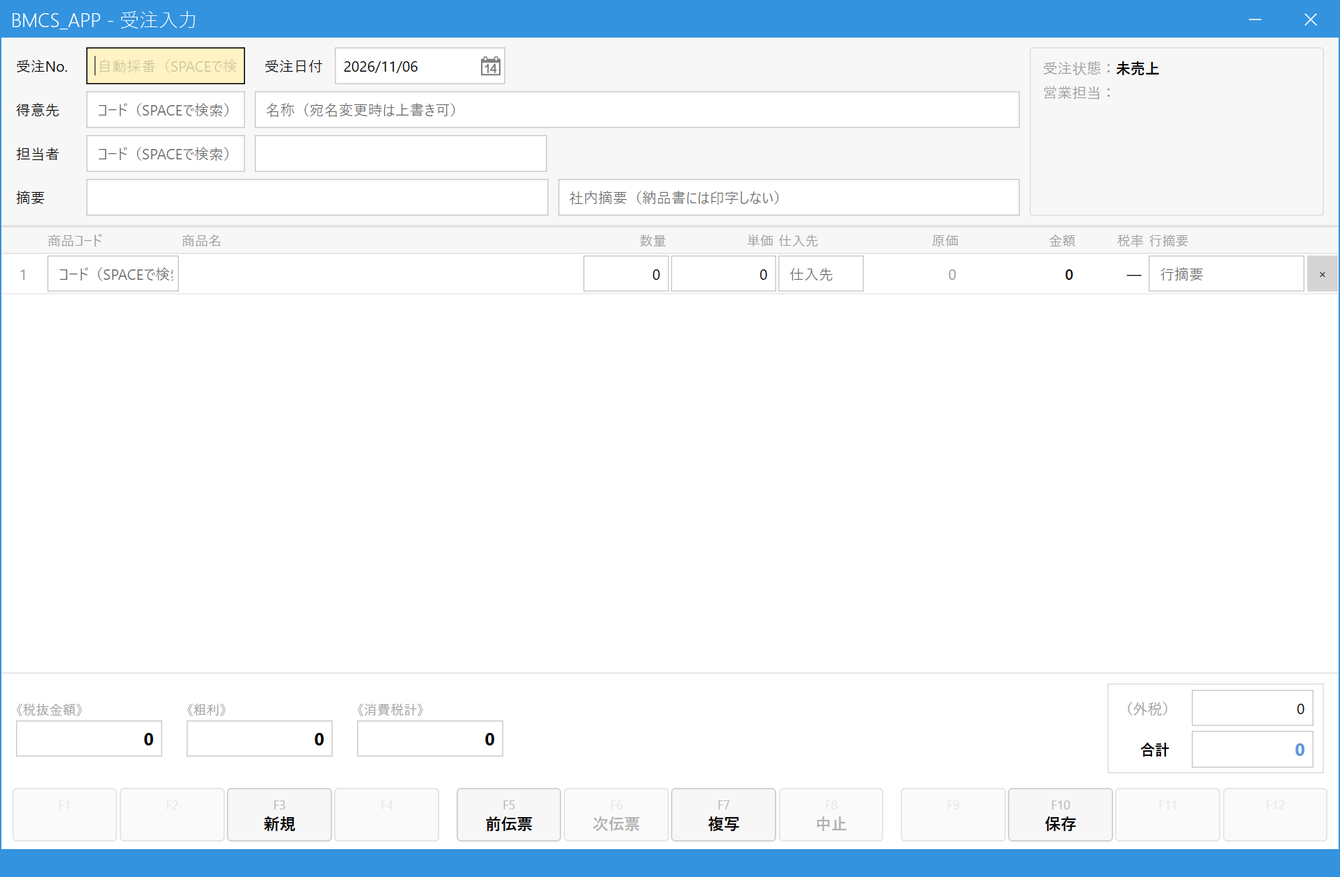
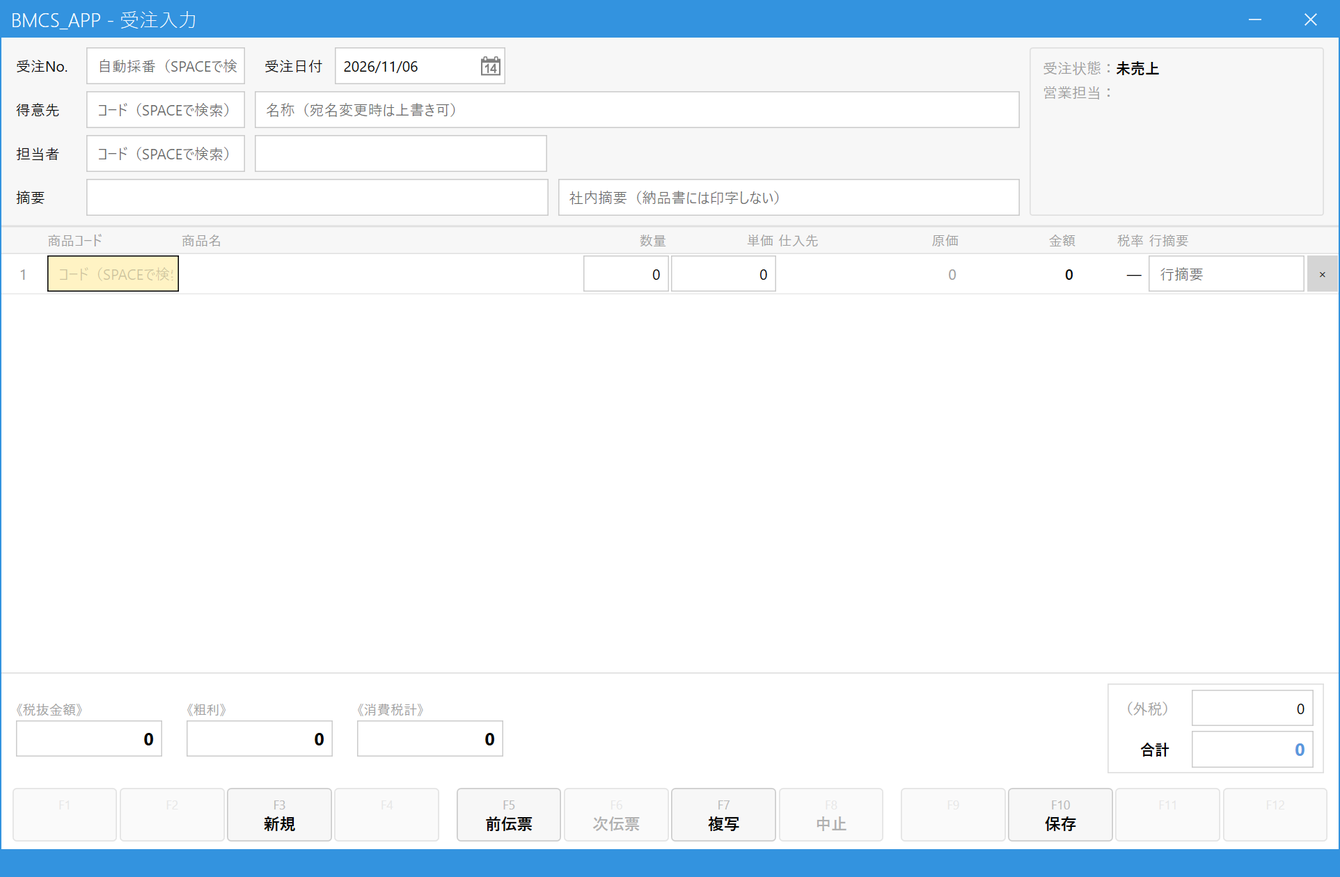
操作マニュアルを仕入先を商品検索で決める方式に合わせて直す
- 受注入力・売上入力: 明細の仕入先は表示のみで、商品検索のリストで決まることを説明
- 商品検索モーダル: 仕入先・原価の列、仕入先ごとの行、並び順、検索対象を説明
- 商品マスタ・仕入先／商品／原価マスタ: 主仕入先は直接入力の既定であること等を修正
- 仕入先列の画面写真と商品検索モーダルの画像を撮り直す

Changed region(s): [[0.0623, 0.031, 0.187, 0.1238], [0.0312, 0.2786, 0.1558, 0.3405], [0.5922, 0.3095, 0.6234, 0.3405]]

diff --git a/docs/user-manual-jp/order-entry.html b/docs/user-manual-jp/order-entry.html
@@ -68,18 +68,19 @@
 
 <h2><span class="no">3.</span>商品と数量を入れる</h2>
 <p>明細の1行目、<b>商品コード欄</b>から入力します。コードがわかれば入力して <kbd>Enter</kbd>。わからなければ <kbd>Space</kbd> で商品検索を開きます。</p>
-<figure class="mid" data-ann='[{"r":[344,170,490,53],"n":1,"b":[960,196]},{"r":[49,273,1099,44],"n":2,"b":[800,420]},{"r":[1195,82,455,140],"n":3},{"r":[1195,930,455,52],"n":4,"b":[1000,830]}]'>
+<figure class="mid" data-ann='[{"r":[417,170,490,53],"n":1,"b":[960,196]},{"r":[49,274,1380,88],"n":2,"b":[400,520]},{"r":[858,237,332,168],"n":3,"b":[1020,520]},{"r":[1475,82,455,280],"n":4,"b":[1700,480]},{"r":[1475,929,455,53],"n":5,"b":[1700,860]}]'>
   <div class="frame"><img src="images/order-05-product-basket.png" alt="商品検索"></div>
-  <figcaption>商品検索（「A4」と入力して1行選んだ状態）</figcaption>
+  <figcaption>商品検索（「ジェット」と入力して、仕入先ごとの行を2つ選んだ状態。仕入先・原価の値は架空です）</figcaption>
 </figure>
 <ol class="legend">
-  <li>商品名・コードの一部を入力して絞り込みます。</li>
-  <li>入れたい商品の行で <kbd>Enter</kbd>（またはダブルクリック）。右側の「選択中」に入ります。同じ操作でもう一度押すと外れます。</li>
-  <li>最大6件まで同時に選べます。「過去の取引履歴から」タブでは、<b>この得意先に以前売った商品</b>から選べます。</li>
+  <li>商品名・コード・仕入先名などの一部を入力して絞り込みます（仕入先のコードや名称でも探せます）。</li>
+  <li>入れたい行で <kbd>Enter</kbd>（またはダブルクリック）。右側の「選択中」に入ります。同じ操作でもう一度押すと外れます。<b>同じ商品でも、原価を登録した仕入先ごとに行が分かれます</b>（この例では、同じ商品が東西商事と南北物産の2行）。原価を登録した仕入先がない商品（この例の0.7mm 赤）は、仕入先が空欄の1行で、標準原価が出ます。並び順は、商品コード、同じ商品は仕入先コードの順です。</li>
+  <li><b>仕入先・原価</b>：選んだ行の仕入先と原価が、そのまま明細に入ります。</li>
+  <li>選んだ行です。仕入先の名前も出ます。最大6件まで同時に選べ、<b>同じ商品でも仕入先が違えば別の行として</b>選べます（同じ商品・同じ仕入先を重ねて選ぶことはできません）。「過去の取引履歴から」タブでは、<b>この得意先に以前売った商品</b>から選べます（<b>前回の仕入先</b>と、<b>いまの原価</b>が出ます）。</li>
   <li><b>「一括転記」</b>（<kbd>Ctrl</kbd>+<kbd>Enter</kbd>）で明細に取り込みます。</li>
 </ol>
 
-<p>商品を選ぶと、商品名・単価・税率に加えて、<b>仕入先と原価</b>も自動で入り、カーソルが<b>数量</b>へ移ります。数量を入れて <kbd>Enter</kbd> で次の欄へ進みます。商品を入れると空の行が自動で1行増えるので、続けて次の商品を入力できます。</p>
+<p>商品を選ぶと、商品名・単価・税率に加えて、<b>仕入先と原価</b>も自動で入り（商品検索で選んだ行の仕入先と原価。コードを入力して <kbd>Enter</kbd> したときは、商品の主仕入先とその原価）、カーソルが<b>数量</b>へ移ります。数量を入れて <kbd>Enter</kbd> で次の欄へ進みます。商品を入れると空の行が自動で1行増えるので、続けて次の商品を入力できます。</p>
 <figure data-ann='[{"r":[838,367,123,110],"n":1,"b":[900,700]},{"r":[964,367,151,110],"n":2,"b":[1040,700]},{"r":[1118,367,123,110],"n":3,"b":[1180,700]},{"r":[1245,367,155,110],"n":4,"b":[1322,700]},{"r":[1478,367,76,110],"n":5,"b":[1516,700]},{"r":[1650,367,224,110],"n":6,"b":[1762,700]},{"r":[1878,367,44,110],"n":7,"b":[1896,700]}]'>
   <div class="frame"><img src="images/order-07-filled.png" alt="明細を入力した状態"></div>
   <figcaption>2行入力した状態（仕入先・原価の値は架空の例です）</figcaption>
@@ -87,30 +88,28 @@
 <ol class="legend">
   <li><b>数量</b>：注文された数を入れます。</li>
   <li><b>単価</b>：得意先ごとの取り決めがあればそれが、なければ商品の標準単価が入ります。<b>値引き価格など、変えたいときはここを直接書き換えます</b>。</li>
-  <li><b>仕入先</b>：原価の元になる仕入先です。商品の<b>主仕入先</b>（商品マスタで決めた仕入先）が自動で入ります。主仕入先のない商品は空欄（仕入先なし）です。変えるときは下の「仕入先と原価」を見てください。</li>
-  <li><b>原価</b>：粗利の計算に使う、商品1つあたりの原価です（見るだけで、直接は書き換えられません）。仕入先を決めると、その仕入先の原価が入ります。</li>
+  <li><b>仕入先</b>：原価の元になる仕入先です（見るだけで、直接は書き換えられません）。商品検索で選んだ行の仕入先が入ります。仕入先のない行は空欄です。変えるときは下の「仕入先と原価」を見てください。</li>
+  <li><b>原価</b>：粗利の計算に使う、商品1つあたりの原価です（見るだけで、直接は書き換えられません）。選んだ仕入先の原価が入ります。</li>
   <li><b>金額</b>：数量×単価で自動計算されます（入力不要）。</li>
   <li><b>行摘要</b>：その行だけのメモ（任意）。</li>
   <li><b>×</b>：その行を削除します。入れ間違えた行はここで消します。</li>
 </ol>
 <h3 id="supplier-col">仕入先と原価</h3>
-<p>原価は、次の順で探して、最初に見つかったものが入ります。</p>
-<ol class="steps">
-  <li>明細の<b>仕入先</b>が決まっているとき：その仕入先×商品の原価（<a href="master-supplier-cost.html">仕入先／商品／原価マスタ</a>で登録したもの）</li>
-  <li>仕入先が空欄のとき、またはその仕入先の原価が登録されていないとき：<a href="master-product.html">商品マスタ</a>の<b>標準原価</b></li>
-</ol>
-<p>ふだんは何もしなくて構いません。ある行だけ別の仕入先から仕入れるときに、その行の仕入先を変えます。</p>
+<p>明細の<b>仕入先</b>と<b>原価</b>は、<b>商品を入れた時点</b>で決まります。どちらも明細の上では見るだけで、直接は書き換えられません。</p>
+<table>
+  <tr><th>商品の入れ方</th><th>入る仕入先と原価</th></tr>
+  <tr><td>商品検索の「マスタから」で行を選ぶ</td><td>選んだ行の<b>仕入先</b>と<b>原価</b>（<a href="master-supplier-cost.html">仕入先／商品／原価マスタ</a>で登録したもの）。原価を登録した仕入先がない商品は、仕入先なしで、<a href="master-product.html">商品マスタ</a>の<b>標準原価</b>。</td></tr>
+  <tr><td>商品検索の「過去の取引履歴から」で行を選ぶ</td><td>前回その得意先に売ったときの仕入先と、<b>いまの</b>原価。前回の仕入先の原価がいまは登録されていないときは、仕入先なしで標準原価。</td></tr>
+  <tr><td>商品コードを入れて <kbd>Enter</kbd>（検索を開かない）</td><td>商品の<b>主仕入先</b>（商品マスタで決めた仕入先）と、その原価。主仕入先が空欄の商品や、主仕入先の原価が登録されていない商品は、仕入先なしで標準原価。</td></tr>
+</table>
 <table>
   <tr><th>やりたいこと</th><th>操作</th></tr>
-  <tr><td>別の仕入先に変える</td><td>その行の<b>仕入先</b>欄をマウスでクリックし、仕入先コードを入れて <kbd>Enter</kbd>。わからなければ <kbd>Space</kbd> で検索して選びます。原価は、変えた仕入先のものに入れ替わります。</td></tr>
-  <tr><td>仕入先なし（標準原価）にする</td><td>仕入先欄を空にして <kbd>Enter</kbd>。原価は商品マスタの標準原価になります。</td></tr>
+  <tr><td>別の仕入先に変える</td><td>その行の<b>商品を選び直します</b>。商品コード欄で <kbd>Space</kbd> を押して商品検索を開き、変えたい仕入先の行を選びます（行を選び直すと、仕入先も原価も入れ替わります）。</td></tr>
+  <tr><td>仕入先なし（標準原価）にする</td><td>原価を登録した仕入先がある商品は、一覧に標準原価の行が出ません。仕入先なしで売りたい商品は、<a href="master-supplier-cost.html">仕入先／商品／原価マスタ</a>で、その商品の原価を空欄にして登録します（その仕入先は、その商品の一覧に出なくなります）。</td></tr>
   <tr><td>入れた仕入先を確認する</td><td>仕入先欄にマウスを重ねると、仕入先名が表示されます。</td></tr>
 </table>
 <ul>
-  <li>仕入先欄は、<kbd>Tab</kbd>・<kbd>Enter</kbd>のカーソル移動では止まりません（毎行の入力で手間が増えないようにするためです）。</li>
-  <li>見つからない・使えない仕入先コードを入れると、「仕入先コード「○○」が見つかりません。」と出て、仕入先も原価も変わりません。</li>
-  <li><kbd>Enter</kbd>を押さずに入力したままの仕入先は、<b>保存</b>を押したときにまとめて確定されます（見つからない行があるときは、行番号つきのメッセージが出て、保存されません）。</li>
-  <li>商品を入れ直した行は、それまでの仕入先を捨てて、新しい商品の主仕入先から始め直します。</li>
+  <li>仕入先欄は、<kbd>Tab</kbd>・<kbd>Enter</kbd>のカーソル移動では止まりません。</li>
   <li>登録済みの受注を開いたり、複写したときは、保存されている仕入先と原価がそのまま出ます（マスタの現在の値で引き直しません）。</li>
 </ul>
 <div class="note">商品名を、その伝票だけ変えたいときは、商品名の欄をマウスでクリックして書き換えられます（書き換えると末尾に「.」が付き、マスタの名称と区別できます）。</div>

diff --git a/docs/user-manual-jp/sales-entry.html b/docs/user-manual-jp/sales-entry.html
@@ -74,28 +74,36 @@
 </figure>
 <ol class="legend">
   <li><b>得意先</b>：コードを入れて <kbd>Enter</kbd>、または <kbd>Space</kbd> で検索。宛名を今回だけ変えるときは、右の名称欄を直接書き換えます。</li>
-  <li><b>商品コード</b>：コード＋<kbd>Enter</kbd>、または <kbd>Space</kbd> で商品検索。</li>
+  <li><b>商品コード</b>：コード＋<kbd>Enter</kbd>、または <kbd>Space</kbd> で商品検索（仕入先を選びたいときは検索を使います。詳しくは下の「仕入先と原価」）。</li>
   <li><b>区分</b>：通常は「売上」です。<b>返品・値引きを入れるとき</b>だけ、ここで「返品」「値引」に切り替えます。</li>
   <li><b>数量</b>：納品した数。単価は自動で入ります（変えたいときは直接書き換え）。</li>
 </ol>
 <div class="warn">受注から呼び出した売上に返品・値引きの行を足すことはできません。受注由来の売上を返品したいときは、元の売上伝票を呼び出して直します（5章）。</div>
 <h3 id="supplier-col">仕入先と原価</h3>
-<p>明細には<b>仕入先</b>の欄があります。商品を入れると、その商品の<b>主仕入先</b>（<a href="master-product.html">商品マスタ</a>で決めた仕入先）が入り、<b>原価</b>は、その仕入先の原価（<a href="master-supplier-cost.html">仕入先／商品／原価マスタ</a>で登録したもの）になります。仕入先が空欄の行や、仕入先の原価が登録されていない行は、商品マスタの<b>標準原価</b>です。</p>
+<p>明細には<b>仕入先</b>と<b>原価</b>の欄があります。どちらも<b>商品を入れた時点</b>で決まり、明細の上では見るだけで、直接は書き換えられません。</p>
 <figure data-ann='[
  {"r":[1118,430,123,110],"n":1,"b":[1180,700]},
  {"r":[1245,430,155,110],"n":2,"b":[1322,700]}]'>
   <div class="frame"><img src="images/sales-04-supplier.png" alt="仕入先と原価が入った売上入力画面"></div>
-  <figcaption>仕入先と原価が入った状態（1行目は主仕入先、2行目は仕入先を入れ替えた例。仕入先・原価の値は架空です）</figcaption>
+  <figcaption>仕入先と原価が入った状態（商品検索で、同じ商品の行を仕入先ごとに2つ選んだ例。仕入先・原価の値は架空です）</figcaption>
 </figure>
 <ol class="legend">
-  <li><b>仕入先</b>：ふだんは何もしなくて構いません。別の仕入先から仕入れた行だけ、この欄をマウスでクリックして、仕入先コードを入れて <kbd>Enter</kbd>（わからなければ <kbd>Space</kbd> で検索）。入れた仕入先の名前は、欄にマウスを重ねると表示されます。<b>空にして <kbd>Enter</kbd> すると仕入先なし</b>（標準原価）になります。</li>
-  <li><b>原価</b>：粗利の計算に使う原価です（見るだけで、直接は書き換えられません）。仕入先を変えると、その仕入先の原価に入れ替わります。</li>
+  <li><b>仕入先</b>：商品検索で選んだ行の仕入先が入ります（見るだけです）。入れた仕入先の名前は、欄にマウスを重ねると表示されます。仕入先のない行は空欄です。</li>
+  <li><b>原価</b>：粗利の計算に使う原価です（見るだけです）。選んだ仕入先の原価が入ります。</li>
 </ol>
+<table>
+  <tr><th>商品の入れ方</th><th>入る仕入先と原価</th></tr>
+  <tr><td>商品検索の「マスタから」で行を選ぶ</td><td>選んだ行の<b>仕入先</b>と<b>原価</b>（<a href="master-supplier-cost.html">仕入先／商品／原価マスタ</a>で登録したもの）。同じ商品でも、原価を登録した仕入先ごとに行が分かれます。原価を登録した仕入先がない商品は、仕入先なしで、<a href="master-product.html">商品マスタ</a>の<b>標準原価</b>です。</td></tr>
+  <tr><td>商品検索の「過去の取引履歴から」で行を選ぶ</td><td>前回その得意先に売ったときの仕入先と、<b>いまの</b>原価。前回の仕入先の原価がいまは登録されていないときは、仕入先なしで標準原価。</td></tr>
+  <tr><td>商品コードを入れて <kbd>Enter</kbd>（検索を開かない）</td><td>商品の<b>主仕入先</b>（商品マスタで決めた仕入先）と、その原価。主仕入先が空欄の商品や、主仕入先の原価が登録されていない商品は、仕入先なしで標準原価。</td></tr>
+</table>
+<table>
+  <tr><th>やりたいこと</th><th>操作</th></tr>
+  <tr><td>別の仕入先に変える</td><td>その行の<b>商品を選び直します</b>。商品コード欄で <kbd>Space</kbd> を押して商品検索を開き、変えたい仕入先の行を選びます（仕入先も原価も入れ替わります）。</td></tr>
+  <tr><td>仕入先なし（標準原価）にする</td><td>原価を登録した仕入先がある商品は、一覧に標準原価の行が出ません。仕入先なしで売りたい商品は、<a href="master-supplier-cost.html">仕入先／商品／原価マスタ</a>で、その商品の原価を空欄にして登録します（その仕入先は、その商品の一覧に出なくなります）。</td></tr>
+</table>
 <ul>
   <li>仕入先欄は、<kbd>Tab</kbd>・<kbd>Enter</kbd>のカーソル移動では止まりません。</li>
-  <li>見つからない・使えない仕入先コードを入れると、「仕入先コード「○○」が見つかりません。」と出て、仕入先も原価も変わりません。</li>
-  <li><kbd>Enter</kbd>を押さずに入力したままの仕入先は、<b>保存</b>を押したときにまとめて確定されます（見つからない行があるときは、行番号つきのメッセージが出て、保存されません）。</li>
-  <li>商品を入れ直した行は、それまでの仕入先を捨てて、新しい商品の主仕入先から始め直します。</li>
   <li>受注を呼び出したとき、登録済みの売上を開いたとき、複写したときは、保存されている仕入先と原価がそのまま出ます（マスタの現在の値で引き直しません）。</li>
 </ul>
 

diff --git a/docs/user-manual-jp/master-supplier-cost.html b/docs/user-manual-jp/master-supplier-cost.html
@@ -15,16 +15,16 @@
 <div class="goal">
   <b>こんなときに使います</b><br>
   「同じ商品でも、<b>仕入先によって仕入れ値（原価）が違う</b>」とき、<b>仕入先×商品ごとの原価</b>を登録します。<br>
-  登録すると、受注・売上の明細で仕入先が決まったとき、<b>その原価が自動で入ります</b>（粗利の計算に使われます）。商品マスタの行を、仕入先ごとに増やす必要はありません。
+  登録すると、受注・売上の商品検索の一覧に、<b>仕入先ごとの行（仕入先と原価）</b>として並び、選んだ行の仕入先と原価が明細に入ります（原価は粗利の計算に使われます）。商品マスタの行を、仕入先ごとに増やす必要はありません。
 </div>
 
-<h2><span class="no">1.</span>原価が決まる順番</h2>
-<p>受注入力・売上入力の明細に商品を入れたとき、または明細の仕入先を変えたとき、原価は次の順で探して、最初に見つかったものが入ります。</p>
+<h2><span class="no">1.</span>原価が決まるしくみ</h2>
+<p>受注入力・売上入力の商品検索（「マスタから」）は、商品マスタに、この画面で登録した原価を付けた一覧を出します。<b>原価を登録した仕入先がある商品は、仕入先ごとの行だけ</b>が並び（仕入先×商品の原価）、<b>ない商品は、仕入先が空欄の1行</b>で、商品マスタの<b>標準原価</b>が出ます。選んだ行の仕入先と原価が、そのまま明細に入ります。</p>
 <ol class="steps">
-  <li>この画面で登録した、<b>その明細の仕入先×商品の原価</b></li>
-  <li><a href="master-product.html">商品マスタ</a>の<b>標準原価</b>（仕入先が空欄のときも、こちらです）</li>
+  <li>この画面で登録した、<b>仕入先×商品の原価</b>（その仕入先の行を選んだとき）</li>
+  <li><a href="master-product.html">商品マスタ</a>の<b>標準原価</b>（原価を登録した仕入先がない商品の、仕入先が空欄の行）</li>
 </ol>
-<p>明細に最初に入る仕入先は、商品マスタの<b>主仕入先</b>です。主仕入先が空欄の商品は、仕入先なし（標準原価）で始まります。明細の仕入先を別のものに変える方法は、<a href="order-entry.html#supplier-col">受注入力</a>・<a href="sales-entry.html#supplier-col">売上入力</a>を見てください。</p>
+<p>商品コードを入力して <kbd>Enter</kbd>（商品検索を開かない）したときだけは、商品マスタの<b>主仕入先</b>とその原価が入ります（主仕入先が空欄なら、仕入先なしで標準原価）。明細の仕入先を別のものに変えるには、その行の商品を商品検索から選び直します。詳しくは<a href="order-entry.html#supplier-col">受注入力</a>・<a href="sales-entry.html#supplier-col">売上入力</a>を見てください。</p>
 
 <h2><span class="no">2.</span>仕入先を選ぶ</h2>
 <p>メインメニューの<b>「マスタ管理」</b>の中の<b>「仕入先／商品／原価マスタ」</b>を開き、<b>仕入先</b>欄にコードを入れて <kbd>Enter</kbd>（<kbd>Space</kbd> または「...」で検索）。その仕入先について、<b>有効な商品が全件</b>、一覧に並びます。</p>
@@ -41,7 +41,7 @@
 <ol class="legend">
   <li><b>仕入先</b>：原価を決めたい仕入先。選ぶと、名称がとなりに表示されます。</li>
   <li><b>商品の絞り込み</b>：商品コード・商品名の一部で表示を絞ります（表示だけが変わります。隠れた行の入力内容も残ります）。</li>
-  <li><b>標準原価</b>：商品マスタの標準原価（見るだけ）。原価が空欄の商品は、伝票の明細にこの値が入ります。</li>
+  <li><b>標準原価</b>：商品マスタの標準原価（見るだけ）。この仕入先の原価が空欄の商品は、商品検索の一覧にこの仕入先の行が出ません（原価を登録した仕入先がほかになければ、仕入先なし・この標準原価の行になります）。</li>
   <li><b>原価</b>：この仕入先でのこの商品の原価。<b>入力できるのはこの列だけ</b>です。登録済みの商品には、その値が出ています。</li>
   <li><b>登録</b>：変更した行だけをまとめて保存します。</li>
   <li>原価を<b>空欄</b>にして登録すると、その仕入先の原価は無効になります（下の「入力して登録する」参照）。</li>
@@ -53,7 +53,7 @@
   <li><b>登録</b>を押す。成功すると「仕入先 ○○ の原価を登録しました（○ 件）。」と出て、画面は空に戻ります。</li>
 </ol>
 <ul>
-  <li><b>空欄にして登録すると、その仕入先の原価は無効になります</b>（取り決めをやめるとき）。無効にすると、伝票の明細には標準原価が入ります。<b>0は有効な値</b>です（原価0円、という意味になります）。</li>
+  <li><b>空欄にして登録すると、その仕入先の原価は無効になります</b>（取り決めをやめるとき）。無効にすると、その商品の商品検索の一覧に、この仕入先の行は出なくなります（原価を登録した仕入先がほかになければ、仕入先なし・標準原価の行になります。仕入先なしで売りたい商品は、原価を登録した仕入先すべてを空欄にします）。<b>0は有効な値</b>です（原価0円、という意味になります）。</li>
   <li>無効にした行にもう一度値を入れて登録すると、新しい値で有効に戻ります（以前の値は引き継ぎません）。</li>
   <li>登録していない変更があるまま、仕入先を選び直したり画面を閉じようとすると、「登録していない変更があります。破棄してよろしいですか？」と確認が出ます。「いいえ」を選ぶと、入力した内容が残ります。</li>
   <li>数字でない値や範囲外の値を入れると、商品コードを示した警告が出て、保存されません。</li>

diff --git a/docs/user-manual-jp/master-product.html b/docs/user-manual-jp/master-product.html
@@ -35,9 +35,9 @@
   <li><b>商品名・カナ・規格・単位</b>：商品名は必須。明細や納品書に印字されます。カナ・規格は検索に使います。</li>
   <li><b>JANコード</b>：任意（バーコードの番号）。検索に使えます。</li>
   <li><b>外税単価（税抜）／内税単価（税込）</b>：標準の販売単価です。明細に商品を入れると、得意先の取引方法に合わせて<b>外税の得意先なら外税単価、内税明細単位（都度取引）の得意先なら内税単価</b>が自動で入ります（あとから明細で書き換えられます）。</li>
-  <li><b>標準原価・定価（税抜）</b>：原価は粗利の計算に使います。仕入先を指定しない明細（および、仕入先の原価を登録していない商品）には、この標準原価が入ります。定価は、得意先ごとに「定価の○%」と決めるとき（掛率）の元になります。</li>
+  <li><b>標準原価・定価（税抜）</b>：原価は粗利の計算に使います。仕入先なしの明細（および、仕入先の原価を登録していない商品）には、この標準原価が入ります。定価は、得意先ごとに「定価の○%」と決めるとき（掛率）の元になります。</li>
   <li><b>税種別区分</b>：通常税率／軽減税率／非課税のどれか。売上を入力した日付の税率が、これで決まります。</li>
-  <li><b>主仕入先</b>：任意。この商品の<b>ふだんの仕入先</b>です。コードを入れて <kbd>Enter</kbd>（となりに仕入先名が出ます）、または <kbd>Space</kbd> で検索して選びます。<b>空欄なら仕入先なし</b>です。受注・売上の明細に商品を入れると、ここで決めた仕入先が明細の<b>仕入先</b>欄に入り、原価もその仕入先のものになります。</li>
+  <li><b>主仕入先</b>：任意。この商品の<b>ふだんの仕入先</b>です。コードを入れて <kbd>Enter</kbd>（となりに仕入先名が出ます）、または <kbd>Space</kbd> で検索して選びます。<b>空欄なら仕入先なし</b>です。受注・売上の明細で、商品コードを入力して <kbd>Enter</kbd>（商品検索を開かない）したときに、ここで決めた仕入先が明細の<b>仕入先</b>欄に入り、原価もその仕入先のものになります。商品検索を開いたときは、主仕入先に関係なく、原価を登録した仕入先すべてが一覧に出て、選んだ行の仕入先が入ります。</li>
   <li><b>保存</b>で登録。やめるときは<b>キャンセル</b>。取り扱いをやめた商品は<b>無効化</b>します（過去の伝票は残ります）。</li>
 </ol>
 <div class="note">主仕入先に選べるのは、<a href="master-supplier.html">仕入先マスタ</a>に登録した有効な仕入先だけです。先に仕入先を登録してください。仕入先ごとの原価は、メニュー「マスタ管理」→「仕入先／商品／原価マスタ」で登録します（<a href="master-supplier-cost.html">仕入先ごとの原価を設定する</a>）。</div>

diff --git a/docs/user-manual-jp/sales-analysis.html b/docs/user-manual-jp/sales-analysis.html
@@ -76,7 +76,7 @@
 </figure>
 <ol class="legend">
   <li><b>「仕入先別」のタブ</b>：仕入先ごとの売上額・原価・粗利・粗利率が並びます。ほかの部分はほかのタブと同じです。</li>
-  <li><b>（仕入先なし）</b>：明細に仕入先が入っていない売上をまとめた行です（一覧の最後に出ます）。仕入先欄を空にして入力した明細や、仕入先を使い始める前の売上は、ここに入ります。この例の月は、すべて仕入先なしの売上です。</li>
+  <li><b>（仕入先なし）</b>：明細に仕入先が入っていない売上をまとめた行です（一覧の最後に出ます）。仕入先なしの行（原価を登録した仕入先がない商品）で入力した明細や、仕入先を使い始める前の売上は、ここに入ります。この例の月は、すべて仕入先なしの売上です。</li>
 </ol>
 
 <h2><span class="no">2.</span>数字の見かた</h2>
